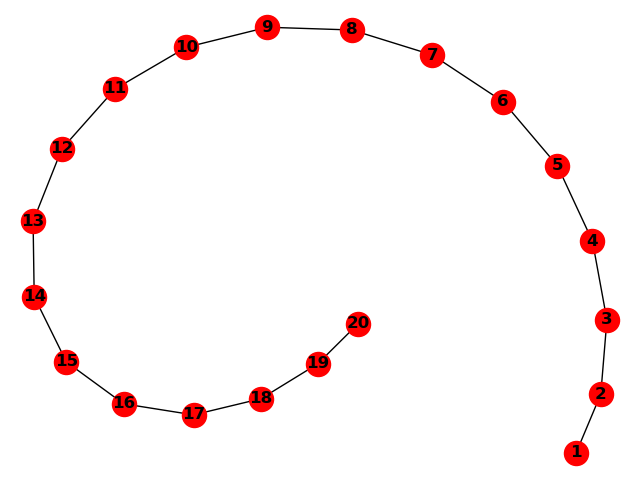
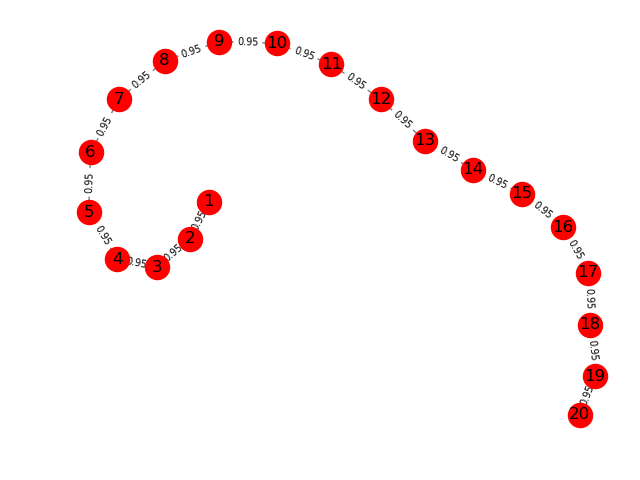
change graphs

diff --git a/Networking/network-Model/src/python/availability.py b/Networking/network-Model/src/python/availability.py
@@ -6,7 +6,17 @@ import copy
 
 
 def draw_graph(graph):
-    nx.draw(graph, with_labels=True, font_weight='bold')
+    pos = nx.spring_layout(graph)
+    nx.draw_networkx_nodes(graph, pos)
+
+    w_edg = nx.get_edge_attributes(graph, 'weight')
+
+    nx.draw_networkx_edges(graph, pos, alpha=0.5)
+    nx.draw_networkx_edge_labels(graph, pos, edge_labels=w_edg, font_size=7)
+
+    nx.draw_networkx_labels(graph, pos)
+
+    plt.axis('off')
     plt.show()
 
 
@@ -63,5 +73,6 @@ if __name__ == "__main__":
 
     r = [(random.randint(1, 20), random.randint(1, 20), 0.4) for i in range(0, 4)]
     model.add_weighted_edges_from(r)
+    print(r)
     print("fourth point: ", count_probability(model))
     draw_graph(model)
